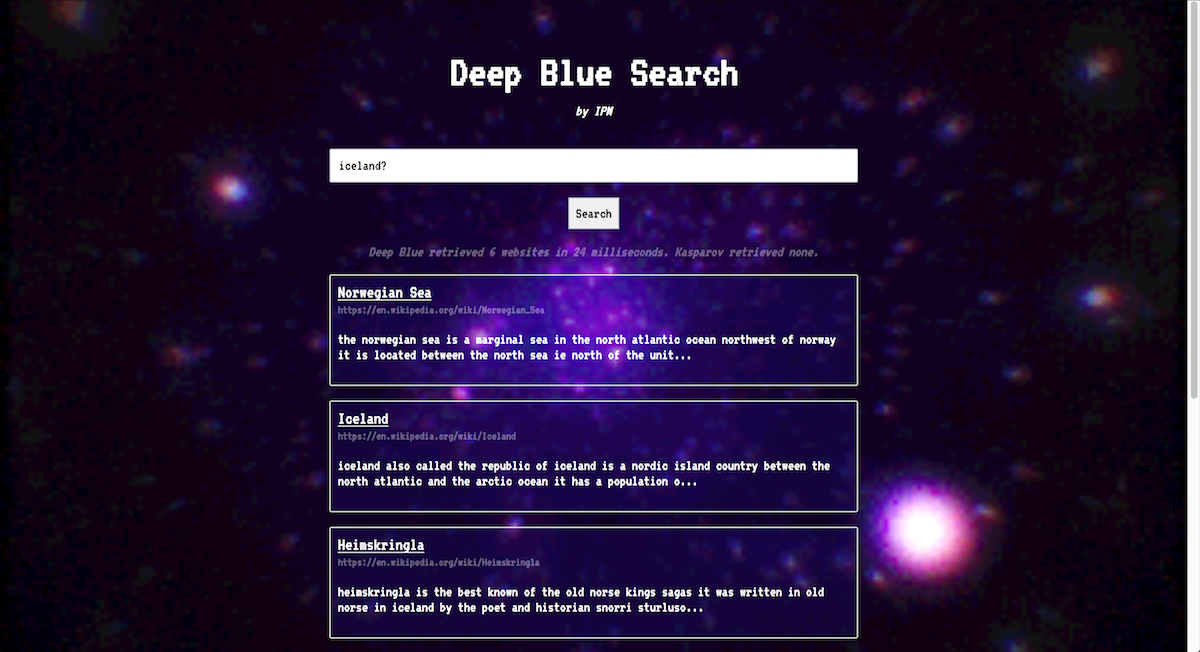
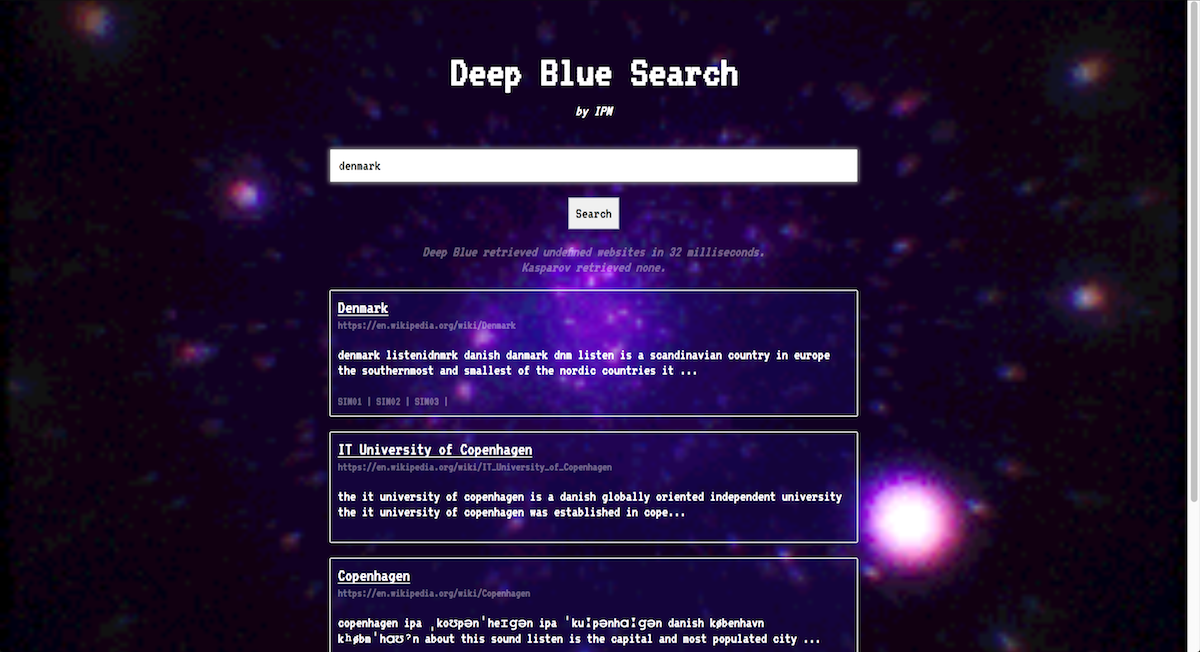
Revision of GUI section

diff --git a/project-report/improved-client-gui.tex b/project-report/improved-client-gui.tex
@@ -10,7 +10,7 @@ The site has a simple mobile-first layout. A dynamic background resembling the i
 	\label{fig:gui:noResults}
 \end{figure}
 
-When a search has been completed, a few details are displayed: The amount of websites retrieved, the time it took, and a tip of the hat to Garry Kasparov (see implementation in Listing \ref{lst:kasparov}). Below, results are displayed with a simple preview (Figure \ref{fig:gui:results}). The preview is generated on the front-end (Listing \ref{lst:preview}).
+When a search has been completed, a few details are displayed: The amount of websites retrieved, the time it took, and a tip of the hat to Garry Kasparov (see implementation in Listing \ref{lst:kasparov}). Below, results are displayed with a simple preview and potentially links to similar websites (Figure \ref{fig:gui:results}). The preview and links are generated on the front-end.
 
 \begin{lstlisting}[language=Java,
 	caption={The Kasparov Algorithm},
@@ -25,18 +25,6 @@ function kasparov(responseSize){
 		return "Kasparov gloats excessively"
 	}
 }
-\end{lstlisting}
-
-\begin{lstlisting}[language=Java,
-	caption={Preview generation},
-	label={lst:preview}]
-const regex = /"|\[|\]/gm;
-
-// Convert the JSON data to a string, replace commas with spaces 
-// and the special characters defined by the regular expression by the empty string. 
-// Finally, get the substring from index 0 to 140
-
-var preview = JSON.stringify(value.words).replace(/,/g, " ").replace(regex, "").substring(0, 140);
 \end{lstlisting}
 
 \begin{figure}[h]
